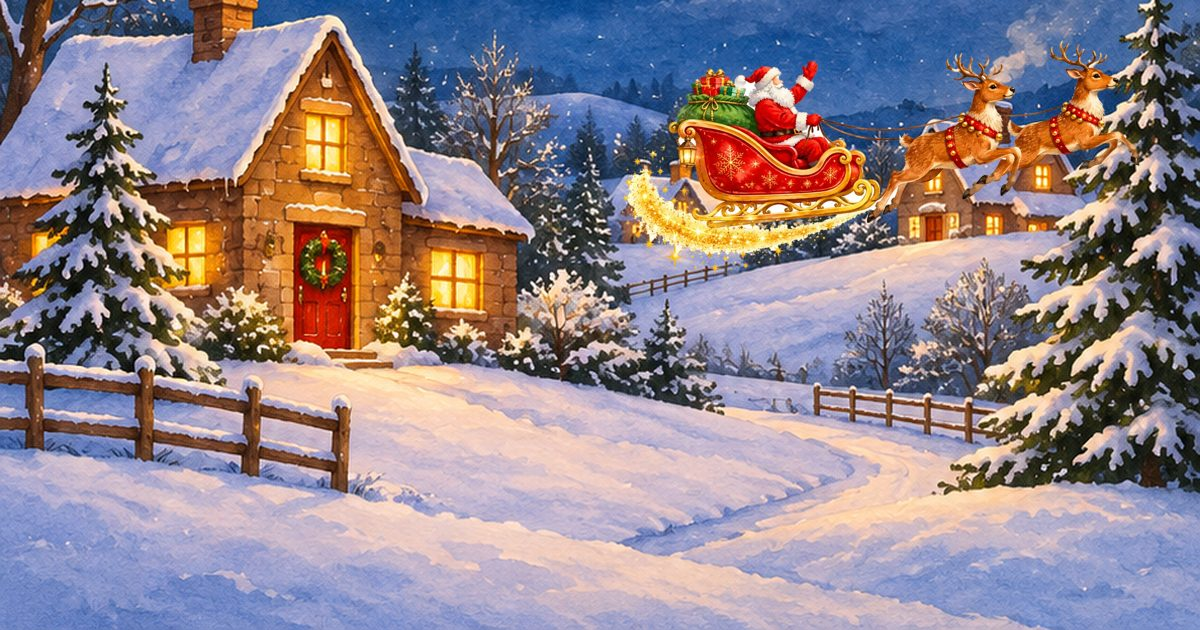
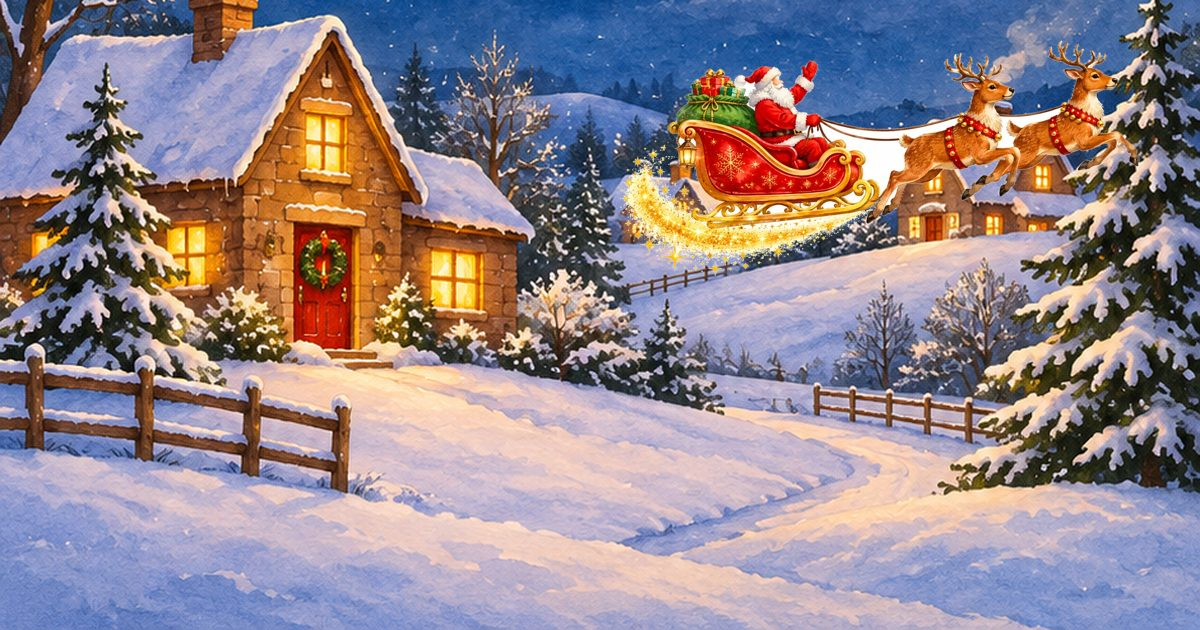
Use the transparent sleigh and tree, and add the holly border across the card
Claude-Session: https://claude.ai/code/session_01E9F4UWt5hSGyiz8nnrSfVn

Changed region(s): [[0.5242, 0.0603, 0.9558, 0.4222]]

diff --git a/apps/web/app/c/card.css b/apps/web/app/c/card.css
@@ -212,6 +212,9 @@
 
 /* Card */
 .xmas-card {
+  position: relative;
+  margin-top: 40px;
+  padding-top: 64px;
   text-align: center;
   animation: xmas-rise 0.9s ease-out;
 }
@@ -378,4 +381,15 @@
     animation: none !important;
     transition: none !important;
   }
+}
+
+/* The holly garland lies across the top edge of the card */
+.xmas-border {
+  position: absolute;
+  top: -34px;
+  left: -5%;
+  width: 110%;
+  max-width: none;
+  height: auto;
+  pointer-events: none;
 }

diff --git a/apps/web/components/cards/CardView.tsx b/apps/web/components/cards/CardView.tsx
@@ -152,6 +152,7 @@ export function CardView({ code, name, greeting, message, signoff, theme }: Card
         </button>
 
         <section className="xmas-sheet xmas-card" hidden={stage !== 'open'} aria-label="Your Christmas card">
+          <Image className="xmas-border" src="/c/border.webp" alt="" width={900} height={290} />
           <h2>Merry Christmas, {name}!</h2>
           {greeting && <p className="xmas-hi">{greeting}</p>}
           <p className="xmas-msg">{message}</p>
